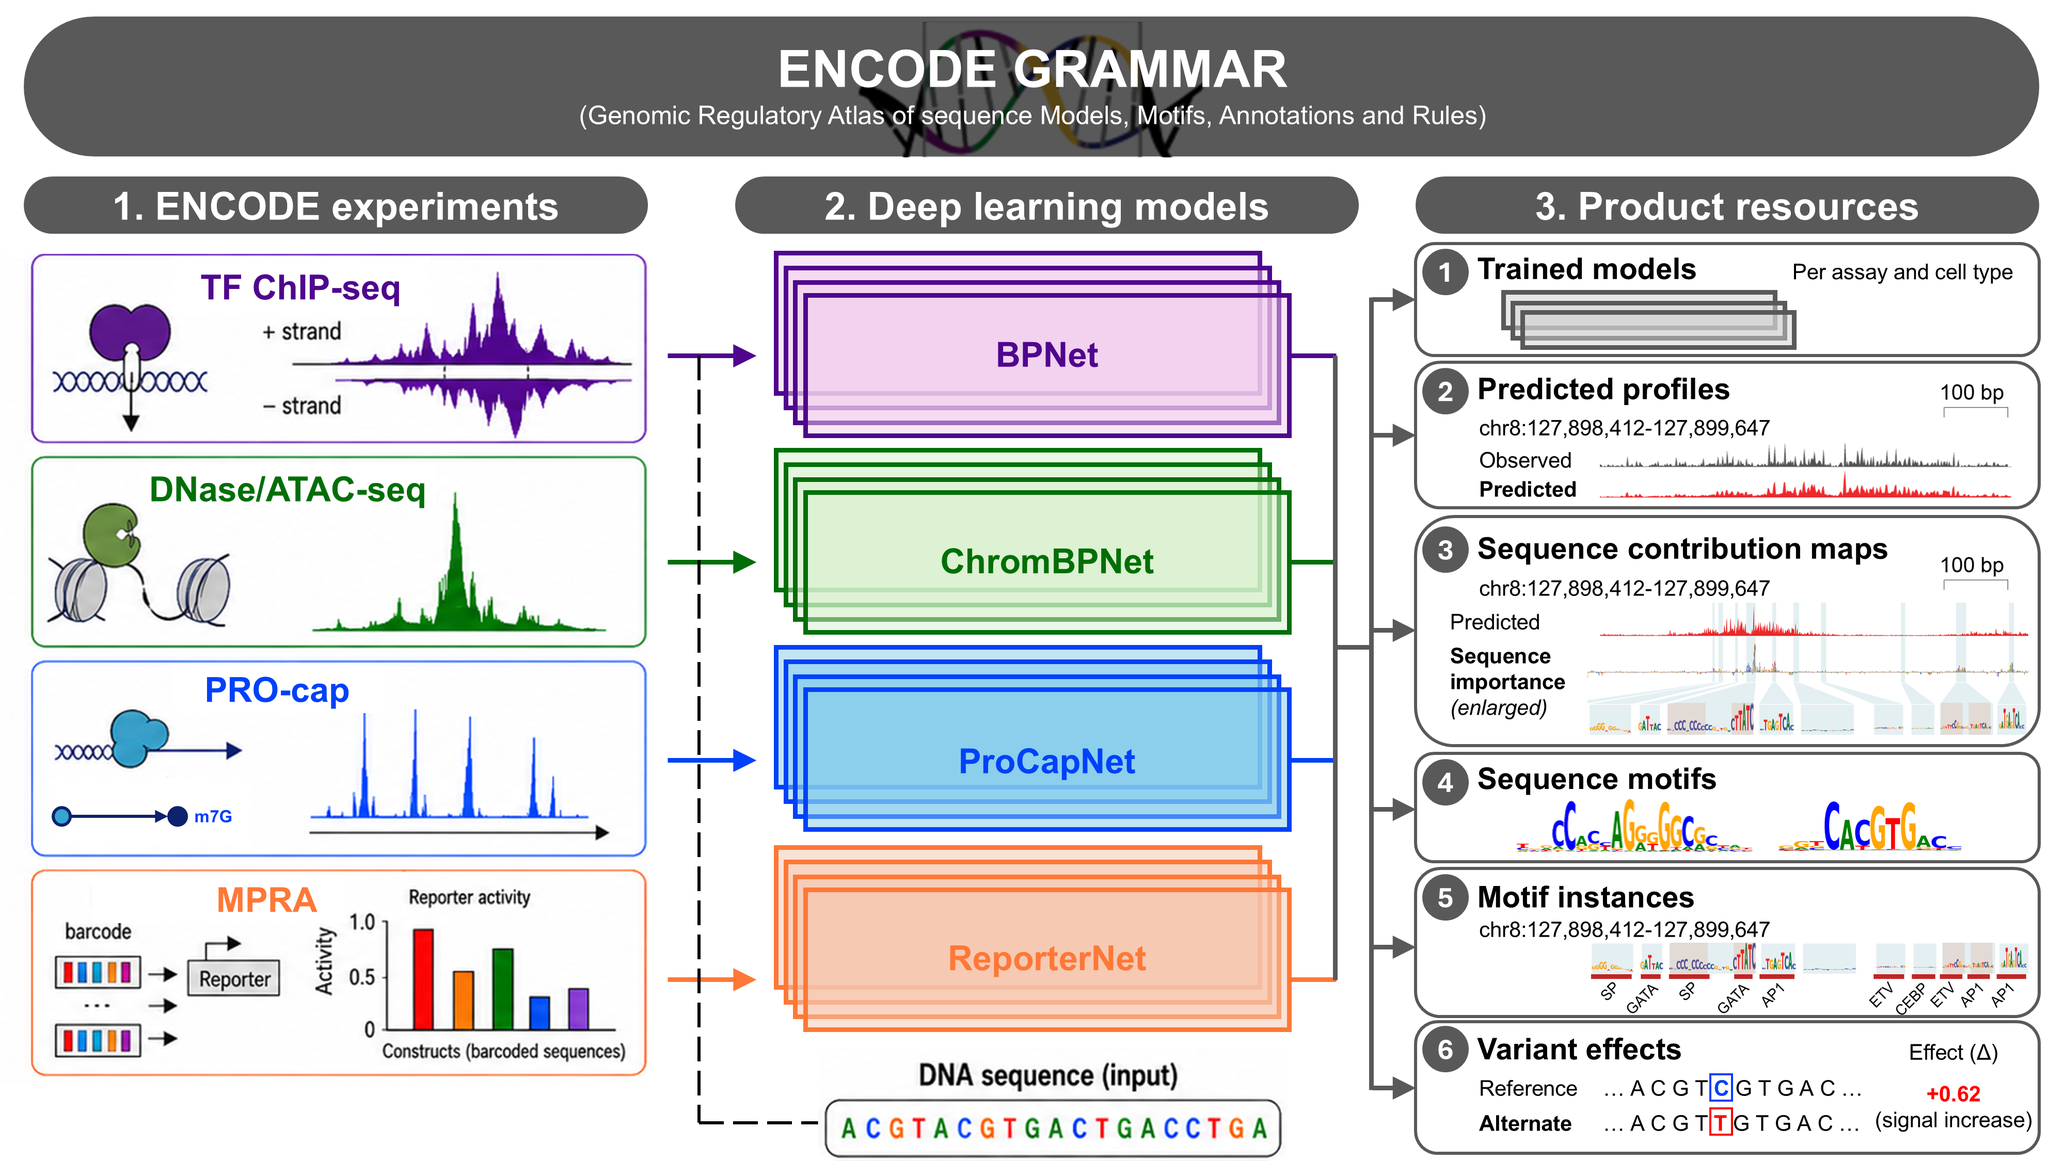
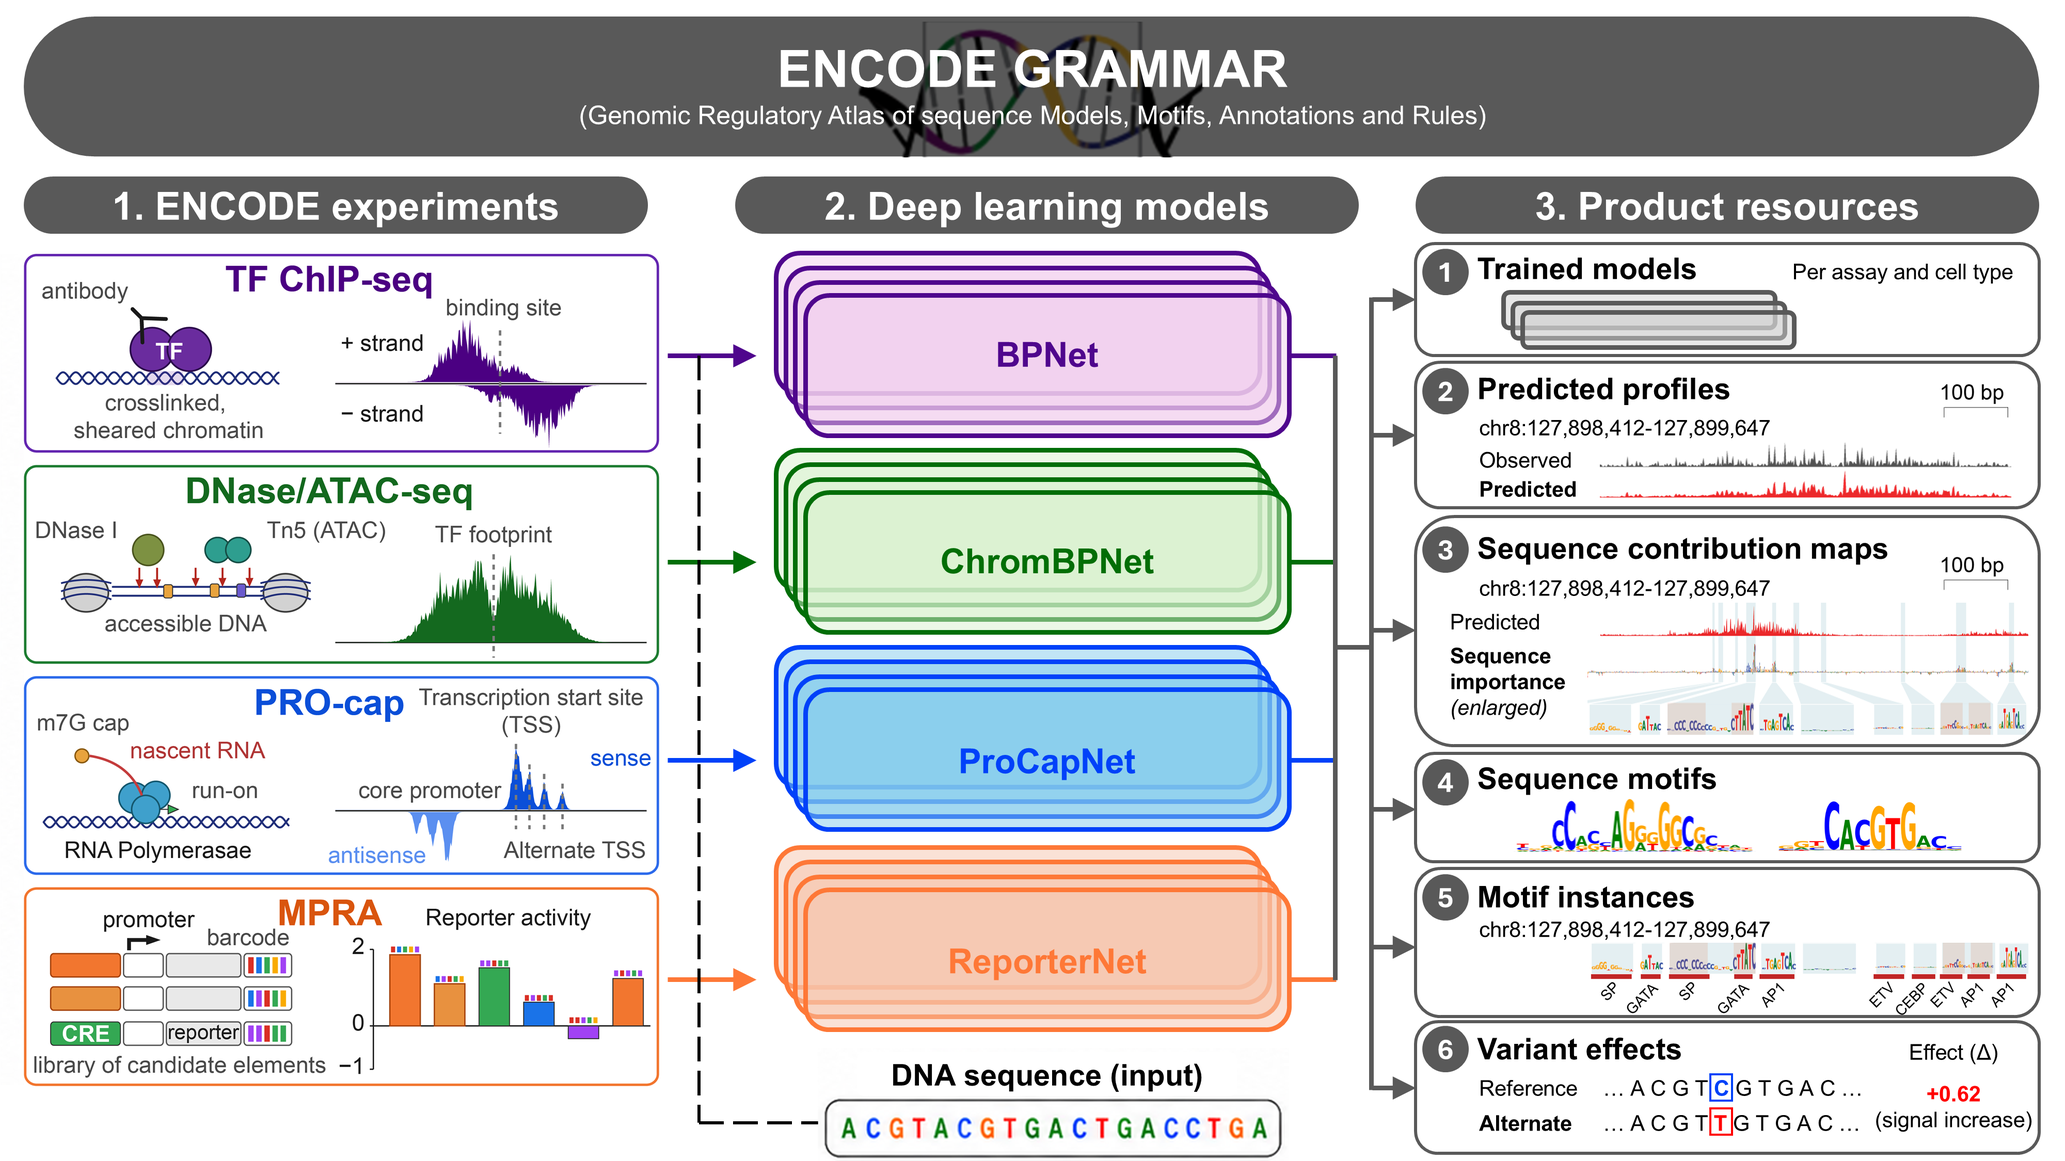
Blogs 2026-012: Updated draft, figures.

diff --git a/content/blogs/2026-012/index.md b/content/blogs/2026-012/index.md
@@ -113,7 +113,9 @@ The human body contains hundreds of distinct cell types—including neurons, liv
 
 **Genes** are segments of DNA that contain instructions for producing **RNA** molecules, some of which are translated into proteins. The transcription of genes into RNA is tightly regulated: different genes are expressed at different levels, in different cell types, and at different times. These distinct patterns of gene expression allow cells with the same genome to acquire different identities and perform specialized functions. Precise regulation of gene expression is therefore essential for development, normal cellular function, and responses to the environment.
 
-Much of this control is encoded in **regulatory elements**—regions of DNA that help determine when, where, and how strongly genes are expressed. DNA is packaged with proteins into **chromatin**, which influences how accessible different regions of the genome are to the cellular machinery. Regulatory proteins called **transcription factors** (TFs), recognize and bind specific short DNA sequence patterns, or **motifs**, within regulatory elements and help increase or decrease gene expression by recruiting or blocking the machinery that carries out transcription. Chromatin accessibility and TF binding influence one another: exposed DNA is easier for regulatory proteins to reach, while some proteins can also open or reorganize chromatin.
+Much of this control is encoded in **regulatory elements**—regions of DNA that help determine when, where, and how strongly genes are expressed. **Promoters** are regulatory elements found at or near the sites where gene transcription begins and help recruit the molecular machinery that produces RNA. Other regulatory elements, such as distal **enhancers**, can act over hundreds of kilobases, boosting transcription of target gene promoters they contact through three-dimensional folding of the genome. 
+
+DNA is packaged with proteins into **chromatin**, which influences how accessible different regions of the genome are to the cellular machinery. Regulatory proteins called **transcription factors** (TFs), recognize and bind specific short DNA sequence patterns, or **motifs**, within regulatory elements and help increase or decrease gene expression by recruiting or blocking the machinery that carries out transcription. Chromatin accessibility and TF binding influence one another: exposed DNA is easier for regulatory proteins to reach, while some proteins can also open or reorganize chromatin.
 
 Different cell types express different combinations of TFs and maintain different chromatin states across the genome. As a result, different cell types engage different repertoires of regulatory elements producing distinct patterns of gene expression, despite containing essentially the same genomic DNA sequence. Genetic variants within regulatory elements can alter transcription-factor binding or other regulatory activity, potentially changing gene expression in particular cellular contexts. Disruption of this regulatory system can interfere with development and cellular function and contribute to disease.
 
@@ -146,16 +148,12 @@ Together, these assays measure complementary layers of gene regulation. TF ChIP-
 
 ENCODE has completed and released more than 16,000 genome-wide assays across thousands of biological samples, including cell lines, primary cells, tissues, differentiated cells, and experimentally perturbed samples from humans and mice. These data are processed using standardized pipelines and made publicly available through the [ENCODE portal](https://encodeproject.org).
 
-By integrating evidence from these and many other assays not discussed here, ENCODE has identified approximately 2.4 million [**candidate cis-regulatory elements (cCREs)**](https://screen.wenglab.org/), in the human genome. A cCRE is a genomic region whose biochemical properties suggest that it may regulate gene expression. These include promoters immediately upstream of genes where transcription begins, enhancers that can increase transcription—sometimes from considerable genomic distances—and [other classes of regulatory elements](https://screen.wenglab.org/about#classifications). The word candidate is important: the biochemical evidence suggests regulatory activity, but most elements have not yet been directly shown to regulate a particular gene.
-
-The consortium recently released a preprint describing the expanded Encyclopedia generated during the fourth and final phase of the project, ENCODE 4.
-
-The ENCODE consortium recently released a preprint describing the entire compendium developed over two decades including many new datasets and derived analysis products from the fourth and final phase of the project [ENCODE 4](https://www.biorxiv.org/content/10.64898/2026.07.06.731365v1).
+By integrating evidence from these and many other assays not discussed here, ENCODE has identified over 2.4 million [**candidate cis-regulatory elements (cCREs)**](https://screen.wenglab.org/), in the human genome. A cCRE is a genomic region whose biochemical properties suggest that it may regulate gene expression. The ENCODE consortium recently released a preprint describing the entire compendium developed over two decades including many new datasets and derived analysis products from the fourth and final phase of the project [ENCODE 4](https://www.biorxiv.org/content/10.64898/2026.07.06.731365v1).
 
 ![Figure: ENCODE cube](ENCODE_cube.png "width=600 Coverage of the ENCODE Project: 100s of biochemical markers, performed in 100s of cell types and tissues, measured across 3 billion genomic positions. From Roadmap Epigenomics Consortium et al. Integrative analysis of 111 reference human epigenomes. Nature 518, 317–330 (2015). (https://doi.org/10.1038/nature14248)")
 _Coverage of the ENCODE Project: hundreds of biochemical markers, performed in hundreds of cell types and tissues, measured across 3 billion genomic positions. From Roadmap Epigenomics Consortium et al. Integrative analysis of 111 reference human epigenomes. Nature 518, 317–330 (2015). ([https://doi.org/10.1038/nature14248](https://doi.org/10.1038/nature14248))_
 
-Together, these experiments address two foundational goals: mapping regulatory elements throughout the genome and characterizing their biochemical activity and properties across cellular contexts. Yet these maps do not fully explain how DNA sequence mediates the diverse types of biochemical activity across the genome and their cell-type specificity. Important questions remain:
+Together, these experiments address two foundational goals: mapping regulatory elements throughout the genome and characterizing their biochemical activity and properties across cellular contexts. Yet these maps do not explain how DNA sequence mediates the diverse types of biochemical activity across the genome and their cell-type specificity. Important questions remain:
 - Which individual DNA bases and sequence motifs within a regulatory element influence different types of biochemical activity (e.g. TF binding, accessibility) in a specific cell type?
 - How do combinations and arrangements of these patterns determine biochemical activity?
 - How does the same regulatory element behave differently across cell types?
@@ -165,40 +163,43 @@ Answering these questions requires moving beyond mapping regulatory elements to 
 
 ## The BPNet family of deep learning models: From regulatory maps to predictive sequence rules
 
-We developed the **BPNet family** of deep learning models to address these questions. These compact, fully convolutional neural networks use dilated residual layers to learn how local DNA sequence gives rise to the regulatory activity measured in each experiment. Rather than simply classifying a genomic region as active or inactive, BPNet models predict both the total amount of activity and the shape of the experimental signal at **base-pair resolution**.  
+We developed the **BPNet family** of deep learning models to address these questions. These neural networks use stacks of dilated residual convolutional layers to learn sequence features including TF motifs and their higher-order combinations and arrangements (called regulatory syntax) that can predict the biochemical activity measured by each experiment at every base, using up to approximately 2 kilobases of local DNA sequence context. Rather than simply classifying a region as active or inactive, BPNet models predict both the total amount of activity and the shape of the experimental signal at **base-pair resolution**. The deliberate choice of restricting the models to only use local-context makes them computationally efficient and amenable to robust sequence-level interpretation. Despite their compact architecture and restricted sequence context, these models are [quite competitive](https://doi.org/10.1101/2024.12.25.63022) with substantially larger models that use much longer genomic sequences.  
 
 The ENCODE GRAMMAR model resource contains four related model families:
 
-- **BPNet:** 2,339 TF ChIP-seq model sets spanning 788 transcription-factor targets.
-- **ChromBPNet:** 1,512 DNase-seq and ATAC-seq model sets across 408 biosamples.
-- **ProCapNet:** 6 PRO-cap model sets that predict transcription-initiation profiles.
+- **[BPNet](https://doi.org/10.1038/s41588-021-00782-6):** 2,339 TF ChIP-seq model sets spanning 788 transcription-factor targets.
+- **[ChromBPNet](https://doi.org/10.1101/2024.12.25.630221):** 1,512 DNase-seq and ATAC-seq model sets across 408 biosamples.
+- **[ProCapNet](https://doi.org/10.1101/2024.05.28.596138):** 6 PRO-cap model sets that predict transcription-initiation profiles.
 - **ReporterNet:** 8 model sets trained on high-throughput reporter assays. Unlike the above three models, ReporterNet makes predictions at the resolution of the candidate sequences tested in the experiments.
 
 Together, these comprise **3,865 experiment-specific model sets**, each trained and evaluated using five-fold cross-validation. They span diverse cell lines, primary cells, and tissues represented in ENCODE.
 
-![Figure: ChromBPNet model architecture](BPNet_architecture.png "width=600 Example BPNet-style model architecture with bias-correction: ChromBPNet. From Pampari, A. et al. ChromBPNet: bias factorized, base-resolution deep learning models of chromatin accessibility reveal cis-regulatory sequence syntax, transcription factor footprints and regulatory variants. 2024.12.25.630221 Preprint at https://doi.org/10.1101/2024.12.25.630221 (2024).")
-_Example BPNet-style model architecture with bias-correction: ChromBPNet. From Pampari, A. et al. ChromBPNet: bias factorized, base-resolution deep learning models of chromatin accessibility reveal cis-regulatory sequence syntax, transcription factor footprints and regulatory variants. _bioRxiv_ 2024.12.25.630221 (2024). ([https://doi.org/10.1101/2024.12.25.630221](https://doi.org/10.1101/2024.12.25.630221))_
+![Figure: ChromBPNet model architecture](BPNet_architecture.png "width=600 Neural network architecture schematic of the BPNet model family: BPNet uses ~2 kb of local DNA sequence as input and applies convolutional and dilated residual layers to learn predictive sequence features and their spatial organization. The model jointly predicts the base-resolution shape of the regulatory profile across a 1 kb region and the total experimental signal within that region.")
+_Neural network architecture schematic of the BPNet model family: BPNet uses ~2 kb of local DNA sequence as input and applies convolutional and dilated residual layers to learn predictive sequence features and their spatial organization. The model jointly predicts the base-resolution shape of the regulatory profile across a 1 kb region and the total experimental signal within that region. See Pampari, A. et al. ChromBPNet: bias factorized, base-resolution deep learning models of chromatin accessibility reveal cis-regulatory sequence syntax, transcription factor footprints and regulatory variants. _bioRxiv_ 2024.12.25.630221 (2024). ([https://doi.org/10.1101/2024.12.25.630221](https://doi.org/10.1101/2024.12.25.630221))_
 
-The trained models are only one component of the resource. We also developed a suite of interpretation methods (discussed below) that reveal the predictive DNA sequence features learned by each model. For every experiment, ENCODE GRAMMAR provides several derived products:
-**Predicted regulatory profiles** at base-pair resolution.
-**Bias-factorized regulatory profiles** for chromatin-accessibility assays, separating the predicted biological signal from sequence preferences of the Tn5 and DNase I enzymes used in ATAC–seq and DNase–seq, respectively.
-**Sequence-contribution maps** estimating how much each DNA base contributes to a model prediction.
-**De novo predictive sequence motifs** which are derived from recurrent patterns of high contribution scores with similar sequences across regions with high signal (e.g. peaks)
-**MotifCompendium** which is a unified lexicon of non-redundant sequence motifs derived from all ENCODE GRAMMAR models 
-**Predictive genomic motif instances** which map high-contribution sequence patterns in regions with high signal to the unified motif lexicon.
-Genome-browser tracks that allow predictions, contribution scores, motifs, and motif instances to be explored together at any genomic locus.
+The trained models are only one component of the resource. We also developed a suite of interpretation methods, described below, to interrogate each model and identify the cell-context-specific DNA sequence features that drive its predictions within biochemically active regulatory elements. For every experiment, ENCODE GRAMMAR provides several derived products:
+
+1. **Predicted regulatory profiles** at base-pair resolution which often reveal de-noised signal profiles compared to the sparse, noisy measured profiles especially from TF ChIP-seq experiments.
+1. **Bias-corrected regulatory profiles** for chromatin-accessibility assays, eliminating distortions in the profiles due to sequence biases of the Tn5 and DNase I enzymes used in ATAC–seq and DNase–seq, respectively.
+1. **Sequence-contribution maps** estimating how much each DNA base contributes to a model’s prediction for individual regulatory sequences.
+1. **De novo predictive sequence motifs** which are derived from recurrent patterns of high contribution scores with similar sequences across biochemically active regulatory sequences (e.g. peaks)
+1. **ENCODE Motif Compendium** which is a unified lexicon of non-redundant sequence motifs derived from all ENCODE GRAMMAR models 
+1. **Predictive genomic motif instances** which map high-contribution sequence patterns in all biochemically active regulatory sequences to the unified motif lexicon.
+1. Genome-browser tracks that allow predictions, contribution scores, motifs, and motif instances to be explored together at any genomic locus.
 
 Together, this collection of models and derived annotations transforms thousands of ENCODE experiments into a practical, sequence-resolved atlas of gene-regulatory activity and its underlying predictive DNA features.
 
 ![ENCODE GRAMMAR](main.png ENCODE GRAMMAR: (1) ENCODE experiments across TF ChIP-seq, DNase-seq/ATAC-seq, PRO-cap, MPRAs. (2) The BPNet family of deep learning models: BPNet, ChromBPNet, ProCapNet, ReporterNet. (3) Product resources: Trained model, predicted profiles, sequence contribution maps, sequence motifs, motif instances, variant effects.)
 
-We describe the basic steps of our workflow below, with more detailed explanations available in the manuscripts [ChromBPNet](https://doi.org/10.1101/2024.12.25.630221), [BPNet](https://doi.org/10.1038/s41588-021-00782-6), [ProCapNet](https://doi.org/10.1101/2024.05.28.596138).
+## Overview of the workflow for generating the ENCODE GRAMMAR resource
 
-**(1) Training:** We begin by training a deep learning model to reconstruct the observed experimental signal when provided the DNA sequence of the region. This mimics the underlying regulatory biology: for a given region of DNA, sequence-specific proteins in the nucleus influence the DNA to be in some regulatory state (e.g., bound by a transcription factor) based on its sequence, which is captured by the experiment (e.g., TF ChIP-seq signal). For a model to successfully reconstruct the experimental signal, we expect that the model should do so by learning the same sequence-specific rules of the nuclear environment. We evaluate the model performance by observing its reconstruction in held out chromosomes unseen during training.
+We describe the main steps of our workflow below. More detailed descriptions are available in the [BPNet](https://doi.org/10.1038/s41588-021-00782-6), [ChromBPNet](https://doi.org/10.1101/2024.12.25.630221), and [ProCapNet](https://doi.org/10.1101/2024.05.28.596138) manuscripts.
 
-![Figure: Train a model](BPNet_Fig1.gif "width=600 Train a model to predict experimentally observed signal from DNA sequence.")
+**(1) Train a set of sequence-to-profile models for each experiment:** For each experiment, we train a deep learning model to predict the measured signal profile from the local DNA sequence surrounding biochemically active regions, together with background regions matched for overall sequence composition. The model is trained on a subset of chromosomes and evaluated on held-out chromosomes containing sequences never seen during training. Strong performance indicates that it has learned generalizable sequence features, including TF motifs and their combinations, spacing, and arrangement. We typically train at least five models per experiment using different chromosome splits, allowing us to estimate performance variability and obtain more stable predictions and interpretations by averaging across models. The resulting ensemble constitutes the experiment’s model set. 
 
-**(2) Prediction:** Once the model is successfully trained to predict unseen sequences, its immediate use is to predict the effect of potentially disease-causing mutations in the genome. We can introduce mutations at any genomic sequence and predict the log-fold change in signal, which can be related to the effect size of the variant.
+![Figure: Train a model](BPNet_Fig1.gif "width=600 Train a model to predict experimentally observed signal profiles from local DNA sequence context.")
+
+**(2) Predict sequence and variant effects:** Once trained, a model can predict biochemical activity profiles for previously unseen DNA sequences. Because each model is trained on a single assay in a specific cellular context and receives only DNA sequence as input, it learns the sequence-to-activity relationship particular to that experiment. Its predictions should therefore not be extrapolated directly to other assays or cell types. Generalization is strongest for sequences whose regulatory syntax resembles that represented in the training data, although the models can often tolerate modest departures from this distribution. Genetic variants provide an important example. Although the models are trained only on reference-genome sequences and receive no explicit variant-effect labels, they can often predict the molecular effects of genetic variants quite effectively ([See Fig. 6 in the ChromBPNet paper](https://doi.org/10.1101/2024.12.25.630221)). We estimate a variant’s effect by comparing predictions for the reference and alternate sequences. Predictions are typically averaged across all models in the corresponding model set to improve robustness and stability, while variation among models provides an empirical estimate of uncertainty. The resulting change in signal quantifies the variant’s predicted effect on the specific biochemical activity measured by that experiment, not on downstream phenotypes such as disease risk.   
 
 ![Figure: Predict mutations](BPNet_Fig3.gif "width=600 Predict the effect of unseen mutations in the genome.")
 
